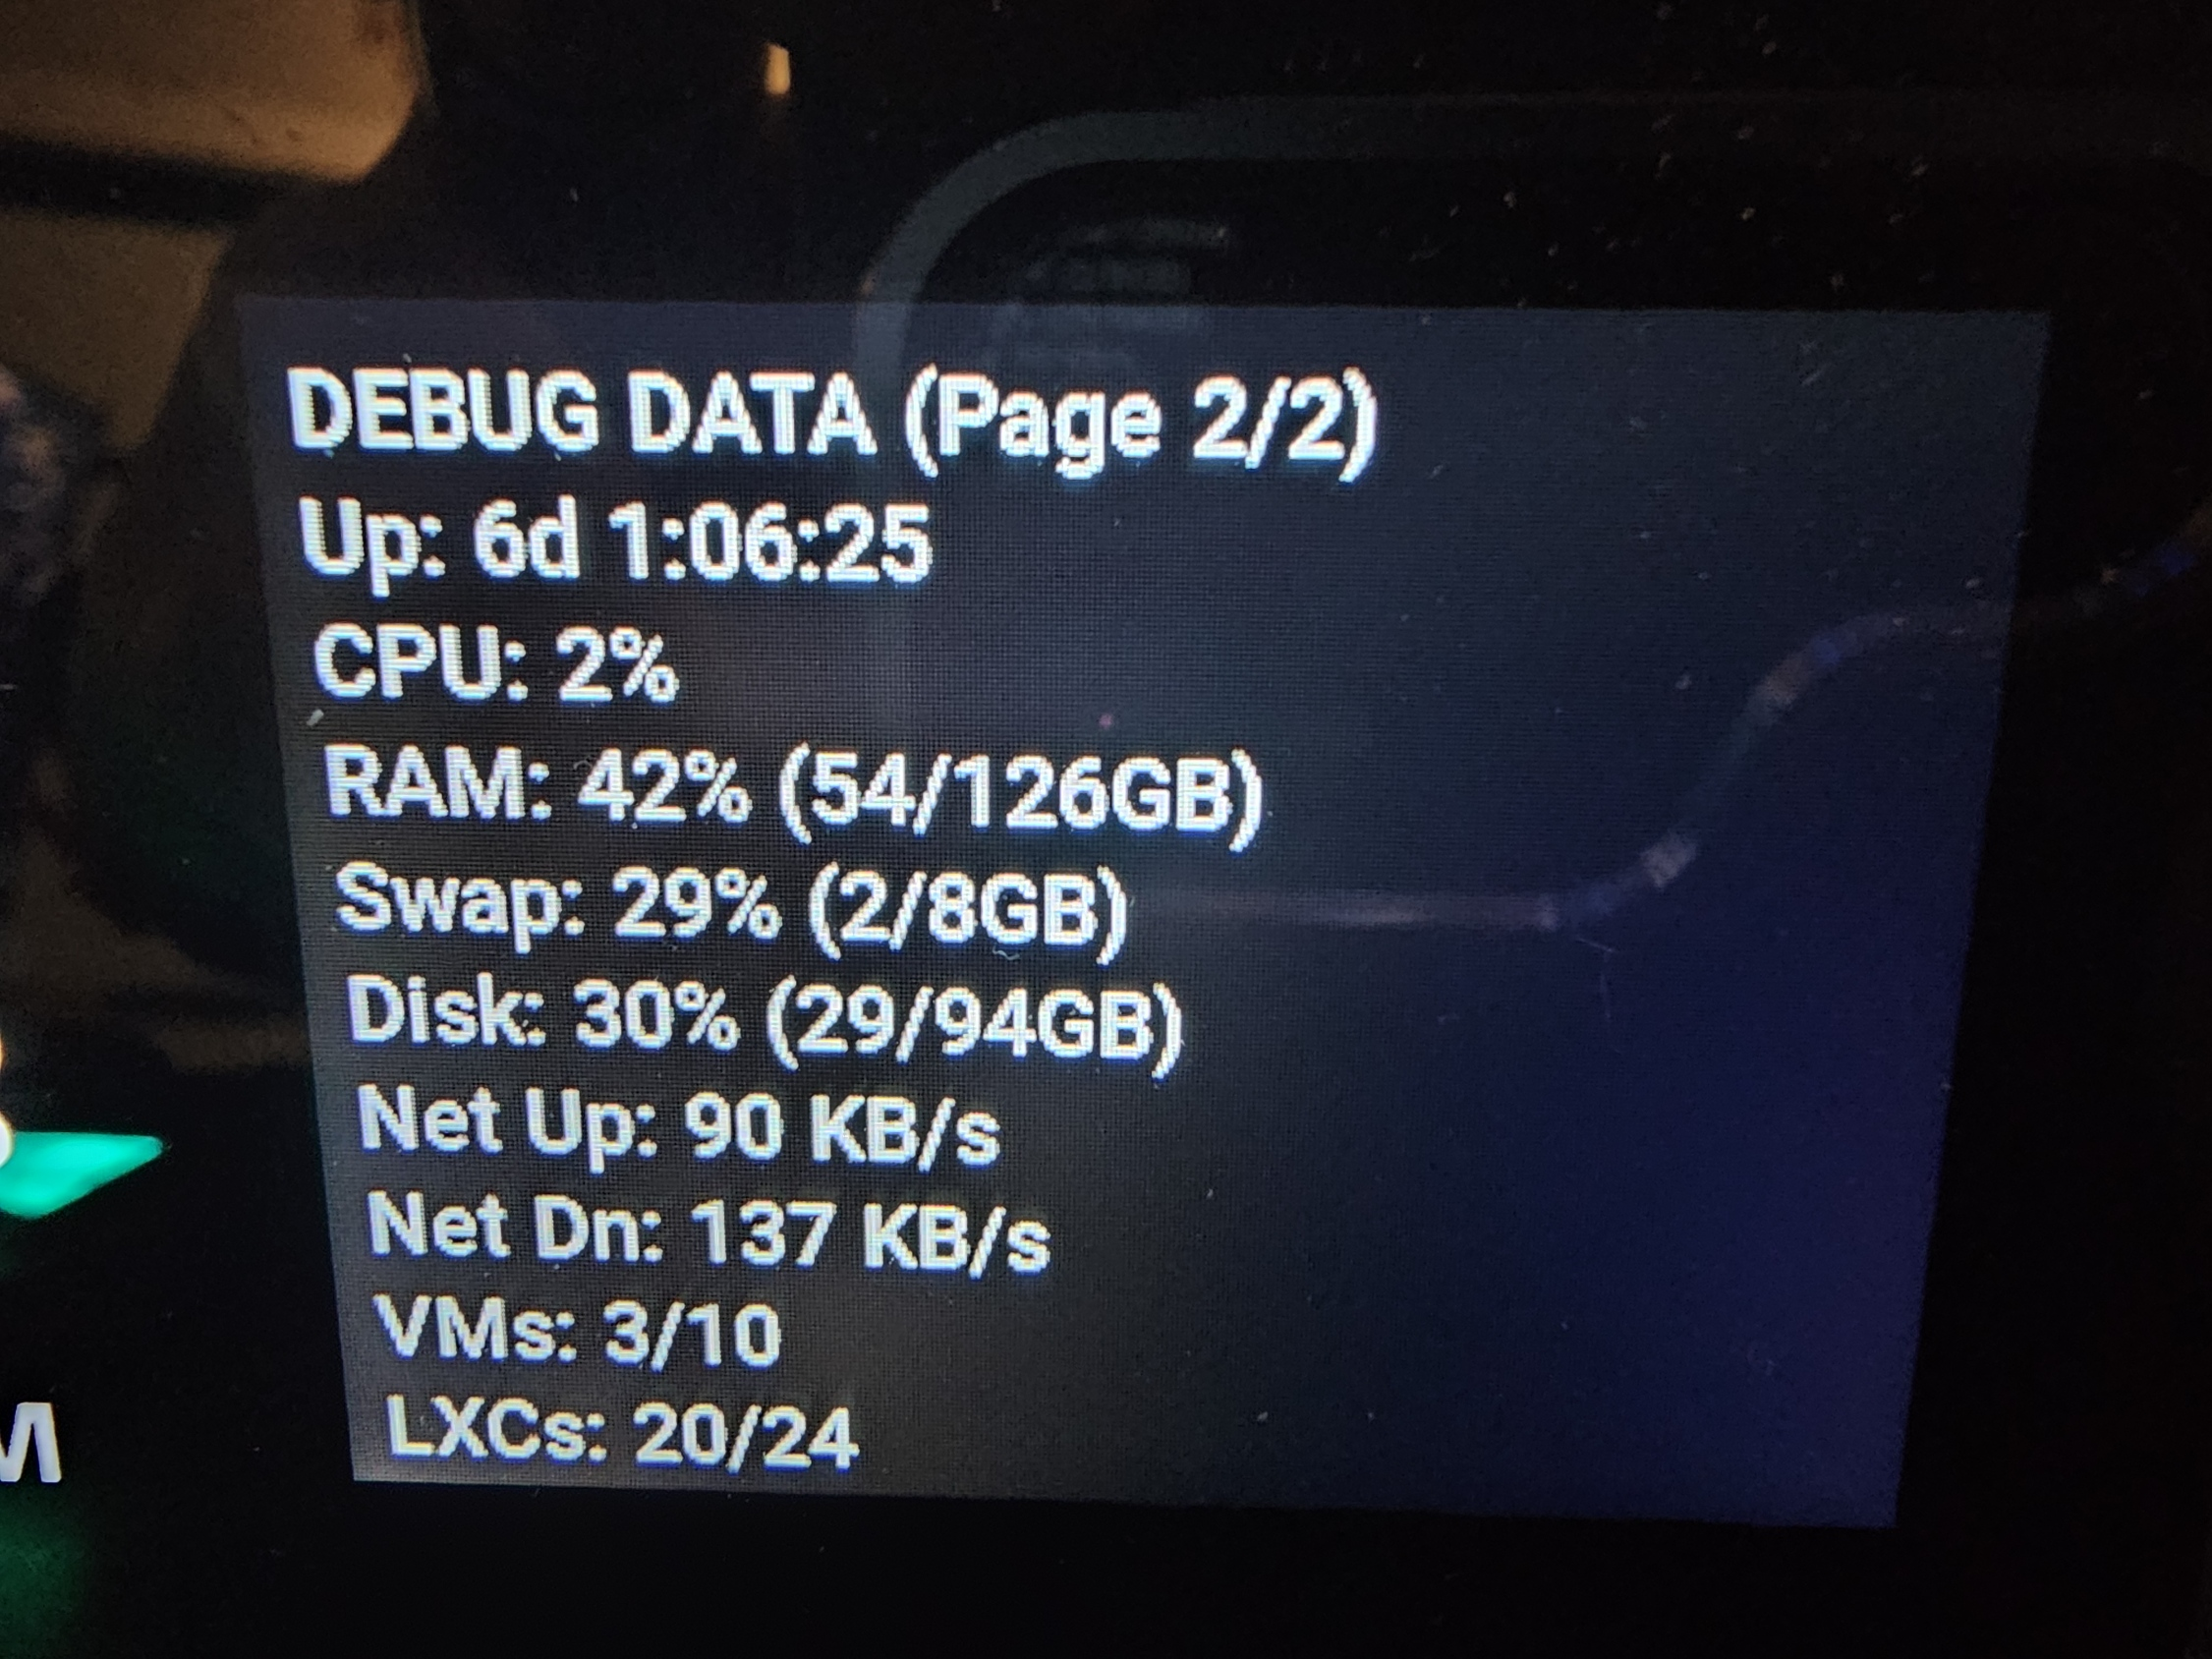
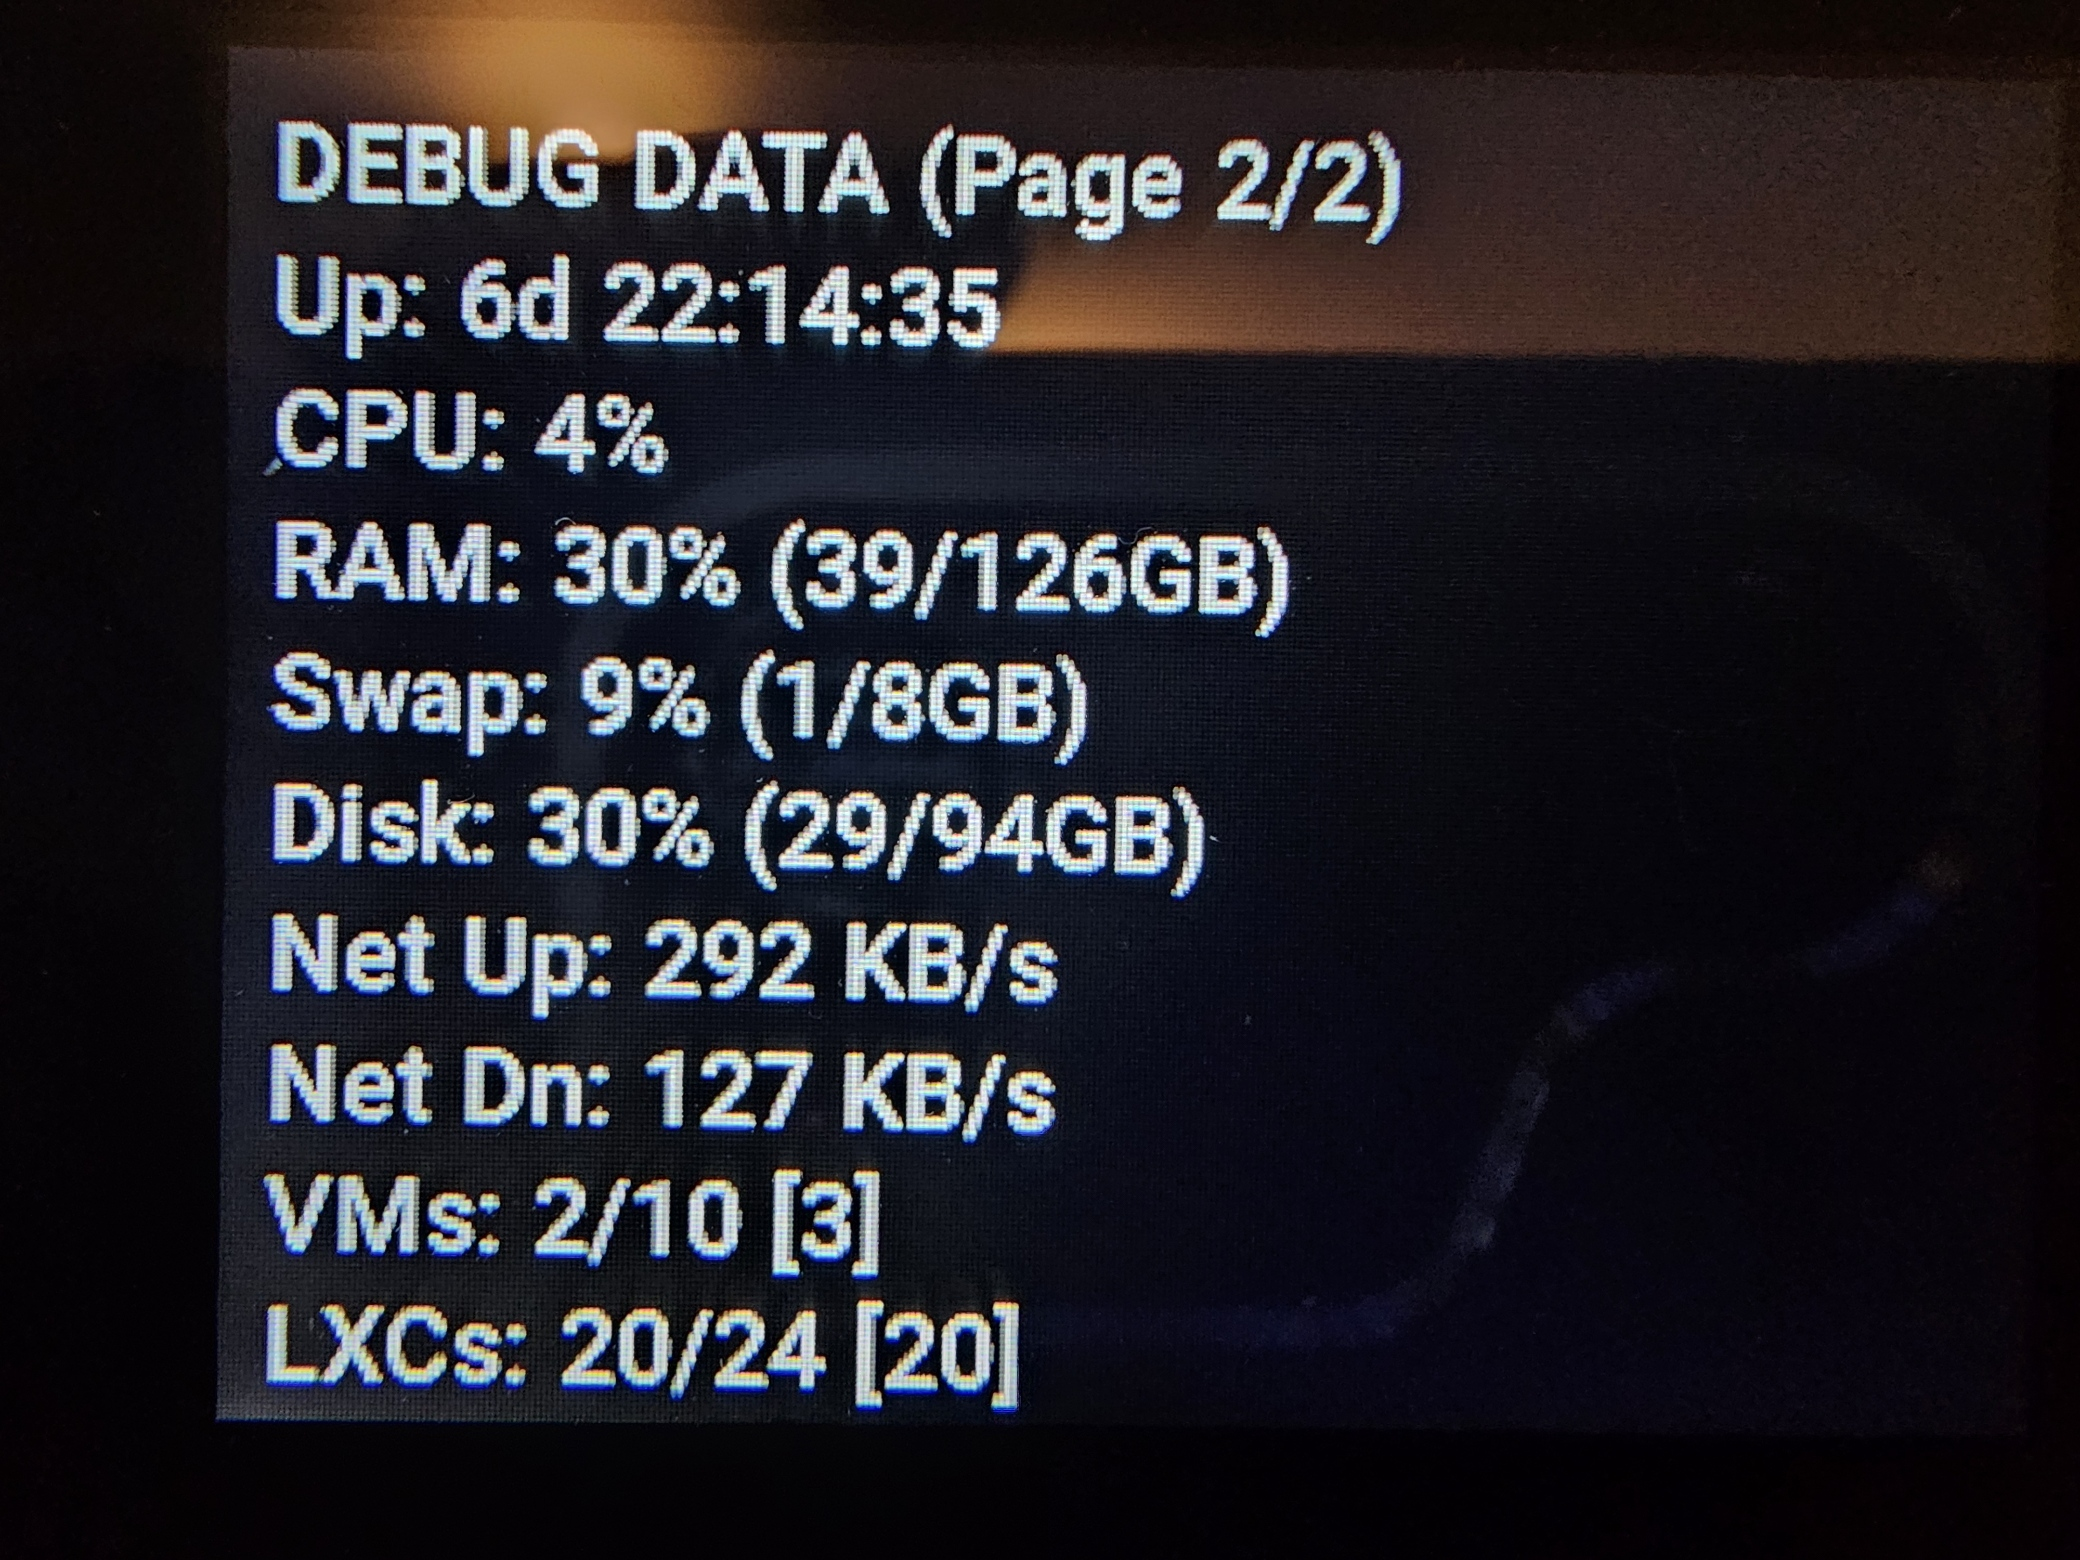
feat: Update Proxmox app to version 1.0.0 with new features and enhancements
- Enhanced UI to display VM and LXC counts with threshold alerts.
- Added configuration options for VM and LXC thresholds in settings.
- Improved performance with background data fetching.
- Updated README with new features and version information.
- Added new binary files for versioning and updated screenshots. - v1.0.0

diff --git a/proxmox/apps/proxmox/__init__.py b/proxmox/apps/proxmox/__init__.py
@@ -17,6 +17,8 @@ NODE_NAME = "proxmox"
 API_TOKEN_ID = "api@pam!REDACTED"
 API_SECRET = ""  # Must be configured via web settings
 POLL_TIME = 10  # seconds between updates
+VM_THRESHOLD = 0  # Alert if VMs running below this count (0 = disabled)
+LXC_THRESHOLD = 0  # Alert if LXCs running below this count (0 = disabled)
 
 # Globals
 _scr = None
@@ -73,7 +75,7 @@ def get_settings_json():
                 "caption": "API Token ID",
                 "name": "api_token_id",
                 "attributes": {"maxLength": 50, "placeholder": "api@realm!token_id"},
-                "tip": "API token ID"
+                "tip": "API token ID api@realm!token_id"
             },
             {
                 "type": "input",
@@ -82,6 +84,22 @@ def get_settings_json():
                 "name": "api_secret",
                 "attributes": {"maxLength": 36, "placeholder": "xxxxxxxx-xxxx-xxxx-xxxx-xxxxxxxxxxxx"},
                 "tip": "API token secret (UUID)"
+            },
+            {
+                "type": "input",
+                "default": "0",
+                "caption": "VM Threshold",
+                "name": "vm_threshold",
+                "attributes": {"maxLength": 3, "placeholder": "0"},
+                "tip": "Alert if running VMs fall below this count (0 = disabled)"
+            },
+            {
+                "type": "input",
+                "default": "0",
+                "caption": "LXC Threshold",
+                "name": "lxc_threshold",
+                "attributes": {"maxLength": 3, "placeholder": "0"},
+                "tip": "Alert if running LXCs fall below this count (0 = disabled)"
             }
         ]
     }
@@ -484,12 +502,36 @@ def _update_ui_for_current_page():
 
     vm_total = int(_metrics['vm_total'])
     vm_running = int(_metrics['vm_running'])
-    _ui['vm_label'].set_text(f"VMs: {vm_running}/{vm_total}")
+    # Check VM threshold and update label/color
+    vm_deficit = 0
+    vm_alert = False
+    if VM_THRESHOLD > 0 and vm_running < VM_THRESHOLD:
+        vm_deficit = VM_THRESHOLD - vm_running
+        vm_alert = True
+        print(f"VM ALERT: running={vm_running} < threshold={VM_THRESHOLD}, deficit={vm_deficit}")
+        _ui['vm_label'].set_text(f"VMs: {vm_running}-{vm_deficit}/{vm_total}")
+        _ui['vm_bar'].set_style_bg_color(_styles['c_red'], lv.PART.INDICATOR)
+    else:
+        print(f"VM OK: running={vm_running}, threshold={VM_THRESHOLD}")
+        _ui['vm_label'].set_text(f"VMs: {vm_running}/{vm_total}")
+        _ui['vm_bar'].set_style_bg_color(_styles['c_accent'], lv.PART.INDICATOR)
     _ui['vm_bar'].set_value(int((vm_running * 100) / (vm_total if vm_total else 1)), lv.ANIM.OFF)
 
     lxc_total = int(_metrics['lxc_total'])
     lxc_running = int(_metrics['lxc_running'])
-    _ui['lxc_label'].set_text(f"LXCs: {lxc_running}/{lxc_total}")
+    # Check LXC threshold and update label/color
+    lxc_deficit = 0
+    lxc_alert = False
+    if LXC_THRESHOLD > 0 and lxc_running < LXC_THRESHOLD:
+        lxc_deficit = LXC_THRESHOLD - lxc_running
+        lxc_alert = True
+        print(f"LXC ALERT: running={lxc_running} < threshold={LXC_THRESHOLD}, deficit={lxc_deficit}")
+        _ui['lxc_label'].set_text(f"LXCs: {lxc_running}-{lxc_deficit}/{lxc_total}")
+        _ui['lxc_bar'].set_style_bg_color(_styles['c_red'], lv.PART.INDICATOR)
+    else:
+        print(f"LXC OK: running={lxc_running}, threshold={LXC_THRESHOLD}")
+        _ui['lxc_label'].set_text(f"LXCs: {lxc_running}/{lxc_total}")
+        _ui['lxc_bar'].set_style_bg_color(_styles['c_accent'], lv.PART.INDICATOR)
     _ui['lxc_bar'].set_value(int((lxc_running * 100) / (lxc_total if lxc_total else 1)), lv.ANIM.OFF)
 
     # Debug page updates
@@ -517,9 +559,20 @@ def _update_ui_for_current_page():
             f"Disk: {_metrics['disk_pct']}% ({_metrics['disk_used']}/{_metrics['disk_total']}GB)",
             f"Net Up: {netout:.0f} KB/s",
             f"Net Dn: {netin:.0f} KB/s",
-            f"VMs: {vm_running}/{vm_total}",
-            f"LXCs: {lxc_running}/{lxc_total}",
         ]
+        
+        # Add VM count with threshold if set
+        vm_line = f"VMs: {vm_running}/{vm_total}"
+        if VM_THRESHOLD > 0:
+            vm_line += f" [{VM_THRESHOLD}]"
+        lines.append(vm_line)
+        
+        # Add LXC count with threshold if set
+        lxc_line = f"LXCs: {lxc_running}/{lxc_total}"
+        if LXC_THRESHOLD > 0:
+            lxc_line += f" [{LXC_THRESHOLD}]"
+        lines.append(lxc_line)
+        
         _ui['debug_label'].set_text("\n".join(lines))
 
 def show_debug_page():
@@ -542,7 +595,7 @@ def show_main_page():
 
 async def on_boot(apm):
     """App lifecycle: Called when app first loaded"""
-    global _app_mgr, PVE_HOST, NODE_NAME, API_TOKEN_ID, API_SECRET
+    global _app_mgr, PVE_HOST, NODE_NAME, API_TOKEN_ID, API_SECRET, VM_THRESHOLD, LXC_THRESHOLD
     _app_mgr = apm
     
     # Load settings
@@ -553,10 +606,59 @@ async def on_boot(apm):
             NODE_NAME = cfg.get("node_name", NODE_NAME)
             API_TOKEN_ID = cfg.get("api_token_id", API_TOKEN_ID)
             API_SECRET = cfg.get("api_secret", API_SECRET)
+            
+            # Load thresholds
+            vm_thresh = cfg.get("vm_threshold")
+            if vm_thresh:
+                try:
+                    VM_THRESHOLD = int(vm_thresh)
+                    print(f"Loaded VM_THRESHOLD: {VM_THRESHOLD}")
+                except ValueError:
+                    print(f"Invalid VM threshold value: {vm_thresh}")
+            
+            lxc_thresh = cfg.get("lxc_threshold")
+            if lxc_thresh:
+                try:
+                    LXC_THRESHOLD = int(lxc_thresh)
+                    print(f"Loaded LXC_THRESHOLD: {LXC_THRESHOLD}")
+                except ValueError:
+                    print(f"Invalid LXC threshold value: {lxc_thresh}")
 
 async def on_start():
     """App lifecycle: Called when user enters app"""
-    global _scr, _current_page
+    global _scr, _current_page, PVE_HOST, NODE_NAME, API_TOKEN_ID, API_SECRET, VM_THRESHOLD, LXC_THRESHOLD
+    
+    # Reload settings every time app starts (in case user changed them via web UI)
+    if _app_mgr:
+        cfg = _app_mgr.config()
+        if isinstance(cfg, dict):
+            PVE_HOST = cfg.get("pve_host", PVE_HOST)
+            NODE_NAME = cfg.get("node_name", NODE_NAME)
+            API_TOKEN_ID = cfg.get("api_token_id", API_TOKEN_ID)
+            API_SECRET = cfg.get("api_secret", API_SECRET)
+            
+            # Load thresholds
+            vm_thresh = cfg.get("vm_threshold")
+            if vm_thresh:
+                try:
+                    VM_THRESHOLD = int(vm_thresh)
+                    print(f"[on_start] Loaded VM_THRESHOLD: {VM_THRESHOLD}")
+                except ValueError:
+                    print(f"[on_start] Invalid VM threshold: {vm_thresh}")
+            else:
+                VM_THRESHOLD = 0
+                print("[on_start] VM threshold not set, using 0")
+            
+            lxc_thresh = cfg.get("lxc_threshold")
+            if lxc_thresh:
+                try:
+                    LXC_THRESHOLD = int(lxc_thresh)
+                    print(f"[on_start] Loaded LXC_THRESHOLD: {LXC_THRESHOLD}")
+                except ValueError:
+                    print(f"[on_start] Invalid LXC threshold: {lxc_thresh}")
+            else:
+                LXC_THRESHOLD = 0
+                print("[on_start] LXC threshold not set, using 0")
     
     if not _scr:
         _scr = lv.obj()
@@ -576,25 +678,30 @@ async def on_start():
         # Build the UI once. Subsequent refreshes only update existing widgets.
         _ensure_ui()
     
-    # Fetch initial data
+    # Show UI immediately (page 0 = main dashboard with default/cached values)
+    _current_page = 0
+    show_current_page()
+    
+    # Fetch initial data in background (non-blocking so UI appears instantly)
     await fetch_proxmox_data()
     
-    # Start on debug page
-    _current_page = 0
+    # Update UI with fresh data
     show_current_page()
 
 async def on_stop():
     """App lifecycle: Called when user leaves app"""
     global _scr, _app_mgr, _ui, _styles
+    
+    # Fast exit: leave root page immediately so user sees app close
+    if _app_mgr:
+        _app_mgr.leave_root_page()
+    
+    # Clean up screen and widgets (non-blocking)
     if _scr:
-        # Delete the screen; cached widgets/styles will be released with it.
         _scr.clean()
-        _scr.delete_async()
         _scr = None
         _ui = None
         _styles = None
-        if _app_mgr:
-            _app_mgr.leave_root_page()
 
 async def on_running_foreground():
     """App lifecycle: Called repeatedly when app is active (~200ms)"""

diff --git a/proxmox/README.md b/proxmox/README.md
@@ -4,14 +4,19 @@ A MicroPython [Proxmox](https://www.proxmox.com/en/products/proxmox-virtual-envi
 
 ## Overview
 
-Displays CPU/RAM gauges, network throughput, and VM/LXC counts from a Proxmox node. Two pages: main dashboard with arcs/bars and a debug text page. Navigate with the rotary wheel.
+Displays CPU/RAM gauges, network throughput, and VM/LXC counts from a Proxmox node with below threshold "alert".
+Two pages: main dashboard with arcs/bars and a debug text page. Navigate with the rotary wheel.
 
 ## Features
 
 - Two-page UI: arc/bars dashboard plus text debug page
-- CPU/RAM arcs, network in/out bars with arrows, VM/LXC bars
+- CPU/RAM arcs, network in/out bars with arrows, VM/LXC count bars
 - Rotary encoder navigation (LEFT/RIGHT to switch pages)
-- Polls Proxmox every 10 seconds, shows swap/disk/uptime on debug page
+- Polls Proxmox every N seconds, shows swap/disk/uptime on debug page
+- LXC and VM threshold with red "alert" bar and how many computes are deficient
+
+> Note that this is doing a bunch of API calls and rendering a lot of widgets, so we're pushing what this little ESP32 can do.
+> There can be intermittent (noticable) lag when using the wheel/buttons. We've tried to optimize as best we could.
 
 ## Screenshots
 
@@ -83,7 +88,7 @@ When in doubt, use Thonny's file view to upload the `proxmox` folder to `/apps/p
 
 ## Technical Details
 
-- **Version:** 0.0.9
+- **Version:** 1.0.0
 - **Platform:** ESP32-S3 (MicroPython)
 - **UI Framework:** LVGL 8.x (arcs/bars/labels; png arrows via `lv.img`)
 - **Dependencies:** urequests, ujson, utime